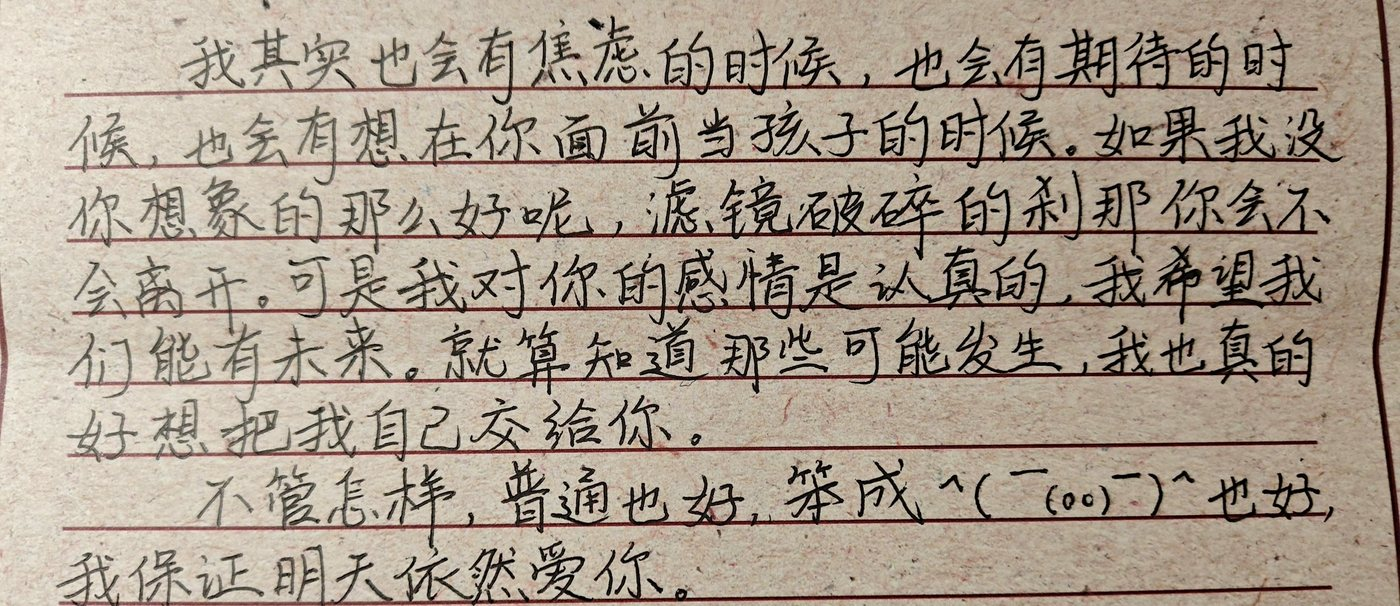
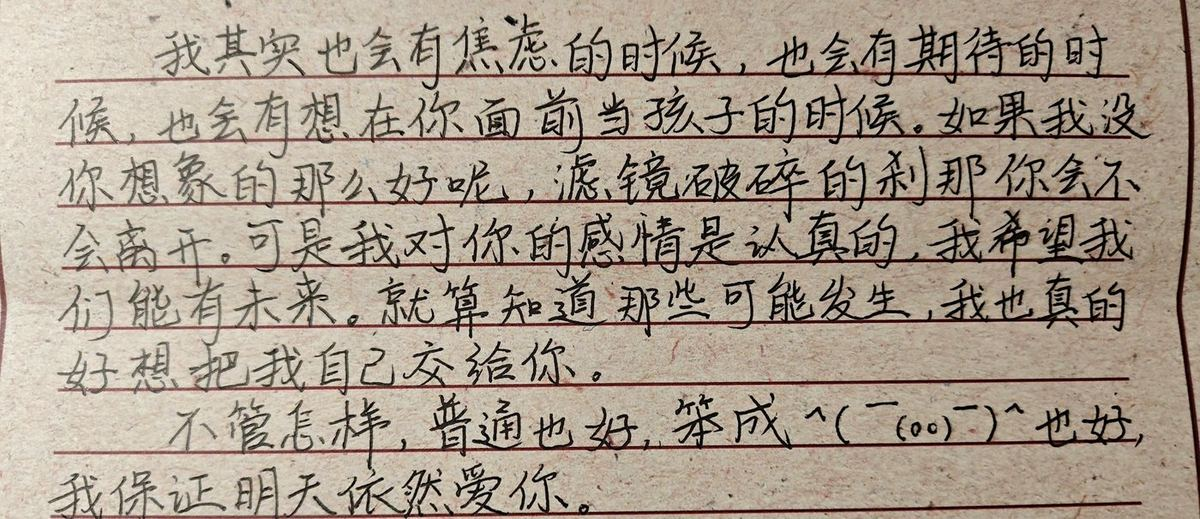
perf: 图片压缩 + WebP + 懒加载，减小一半体积

diff --git a/index.html b/index.html
@@ -124,6 +124,7 @@
       0 0 0 1px rgba(255,255,255,.045);
     transform:rotate(var(--tilt,-.5deg));
   }
+  .paper picture{display:block;}
   .paper img{display:block;width:100%;height:auto;}
 
   /* 正文文字 */
@@ -302,7 +303,10 @@
   <section class="sheet">
     <div class="duo">
       <figure class="paper reveal" style="--tilt:-.6deg">
-        <img src="img/1.jpg" alt="信 第一页">
+        <picture>
+          <source srcset="img/1.webp" type="image/webp">
+          <img src="img/1.jpg" alt="信 第一页" decoding="async">
+        </picture>
         <button class="zoom" type="button" aria-label="查看原图">⤢ 查看原图</button>
       </figure>
       <div class="text reveal">
@@ -320,7 +324,10 @@
   <section class="sheet">
     <div class="duo flip">
       <figure class="paper reveal" style="--tilt:.7deg">
-        <img src="img/2.jpg" alt="信 第二页">
+        <picture>
+          <source srcset="img/2.webp" type="image/webp">
+          <img src="img/2.jpg" alt="信 第二页" loading="lazy" decoding="async">
+        </picture>
         <button class="zoom" type="button" aria-label="查看原图">⤢ 查看原图</button>
       </figure>
       <div class="text reveal">
@@ -338,7 +345,10 @@
   <section class="sheet">
     <div class="single">
       <figure class="paper reveal" style="--tilt:-.3deg">
-        <img src="img/3.jpg" alt="相伴的昼与夜">
+        <picture>
+          <source srcset="img/3.webp" type="image/webp">
+          <img src="img/3.jpg" alt="相伴的昼与夜" loading="lazy" decoding="async">
+        </picture>
         <button class="zoom" type="button" aria-label="查看原图">⤢ 查看原图</button>
       </figure>
       <div class="text reveal">
@@ -351,7 +361,10 @@
   <section class="sheet">
     <div class="duo">
       <figure class="paper reveal" style="--tilt:.5deg">
-        <img src="img/4.jpg" alt="信 第三页">
+        <picture>
+          <source srcset="img/4.webp" type="image/webp">
+          <img src="img/4.jpg" alt="信 第三页" loading="lazy" decoding="async">
+        </picture>
         <button class="zoom" type="button" aria-label="查看原图">⤢ 查看原图</button>
       </figure>
       <div class="text reveal">
@@ -368,7 +381,10 @@
   <section class="sheet">
     <div class="duo flip">
       <figure class="paper reveal" style="--tilt:-.45deg">
-        <img src="img/5.jpg" alt="信 结尾">
+        <picture>
+          <source srcset="img/5.webp" type="image/webp">
+          <img src="img/5.jpg" alt="信 结尾" loading="lazy" decoding="async">
+        </picture>
         <button class="zoom" type="button" aria-label="查看原图">⤢ 查看原图</button>
       </figure>
       <div class="text reveal">
